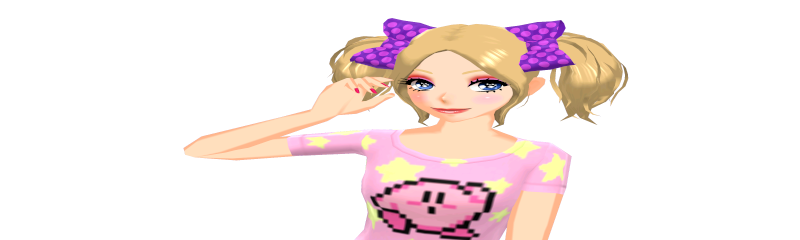
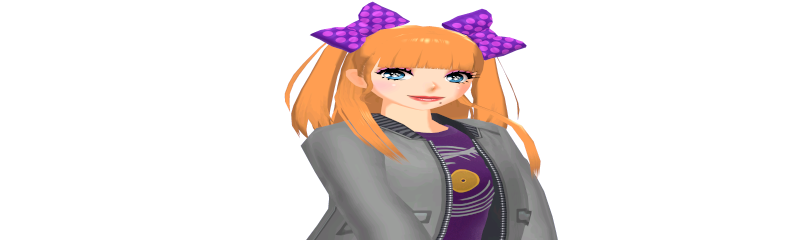
Update Rabz images

diff --git a/source/rocketcharnames.c b/source/rocketcharnames.c
@@ -28,7 +28,7 @@ const char* rocketCharacterFileNamesSummer[] = {
 };
 const char* rocketCharacterFileNamesFall[] = {
 	"ss4_Robz2",
-	"rocket_RabzSpring",
+	"rocket_RabzFall",
 	"rocket_StackZ",
 	"rocket_StackieSpring",
 };
